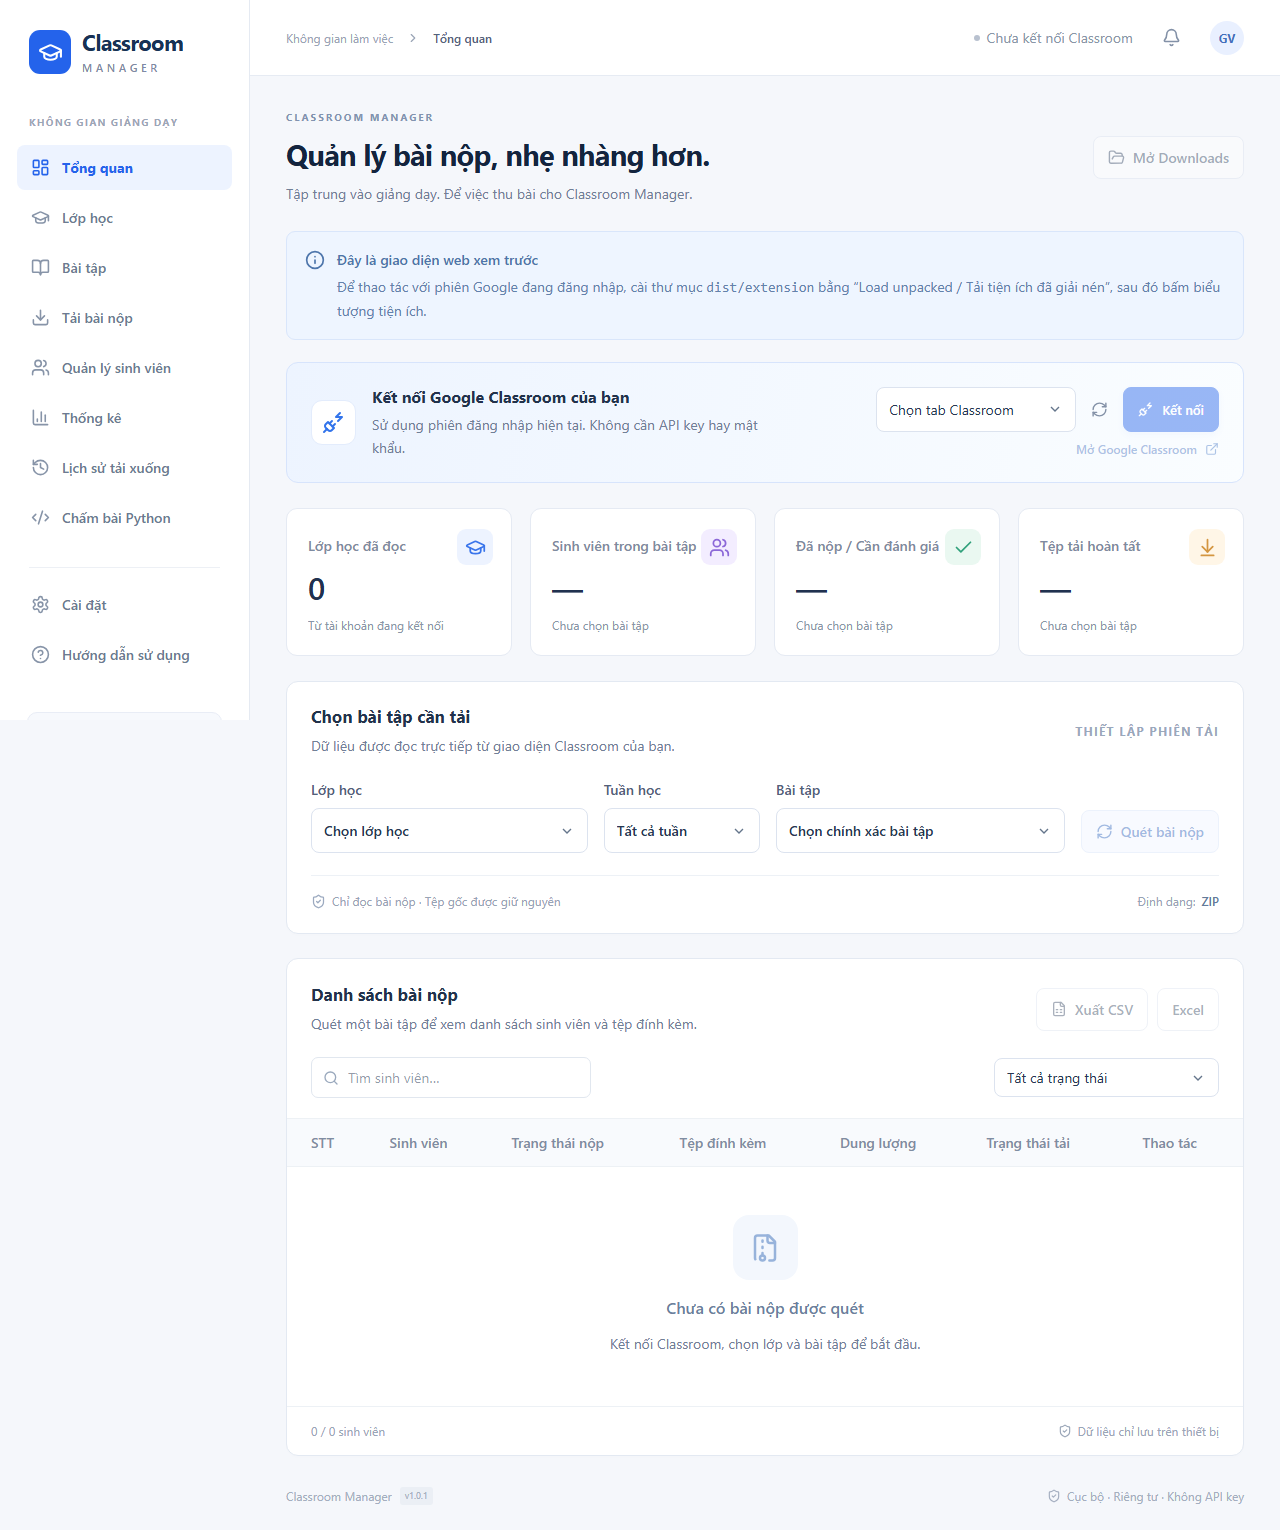
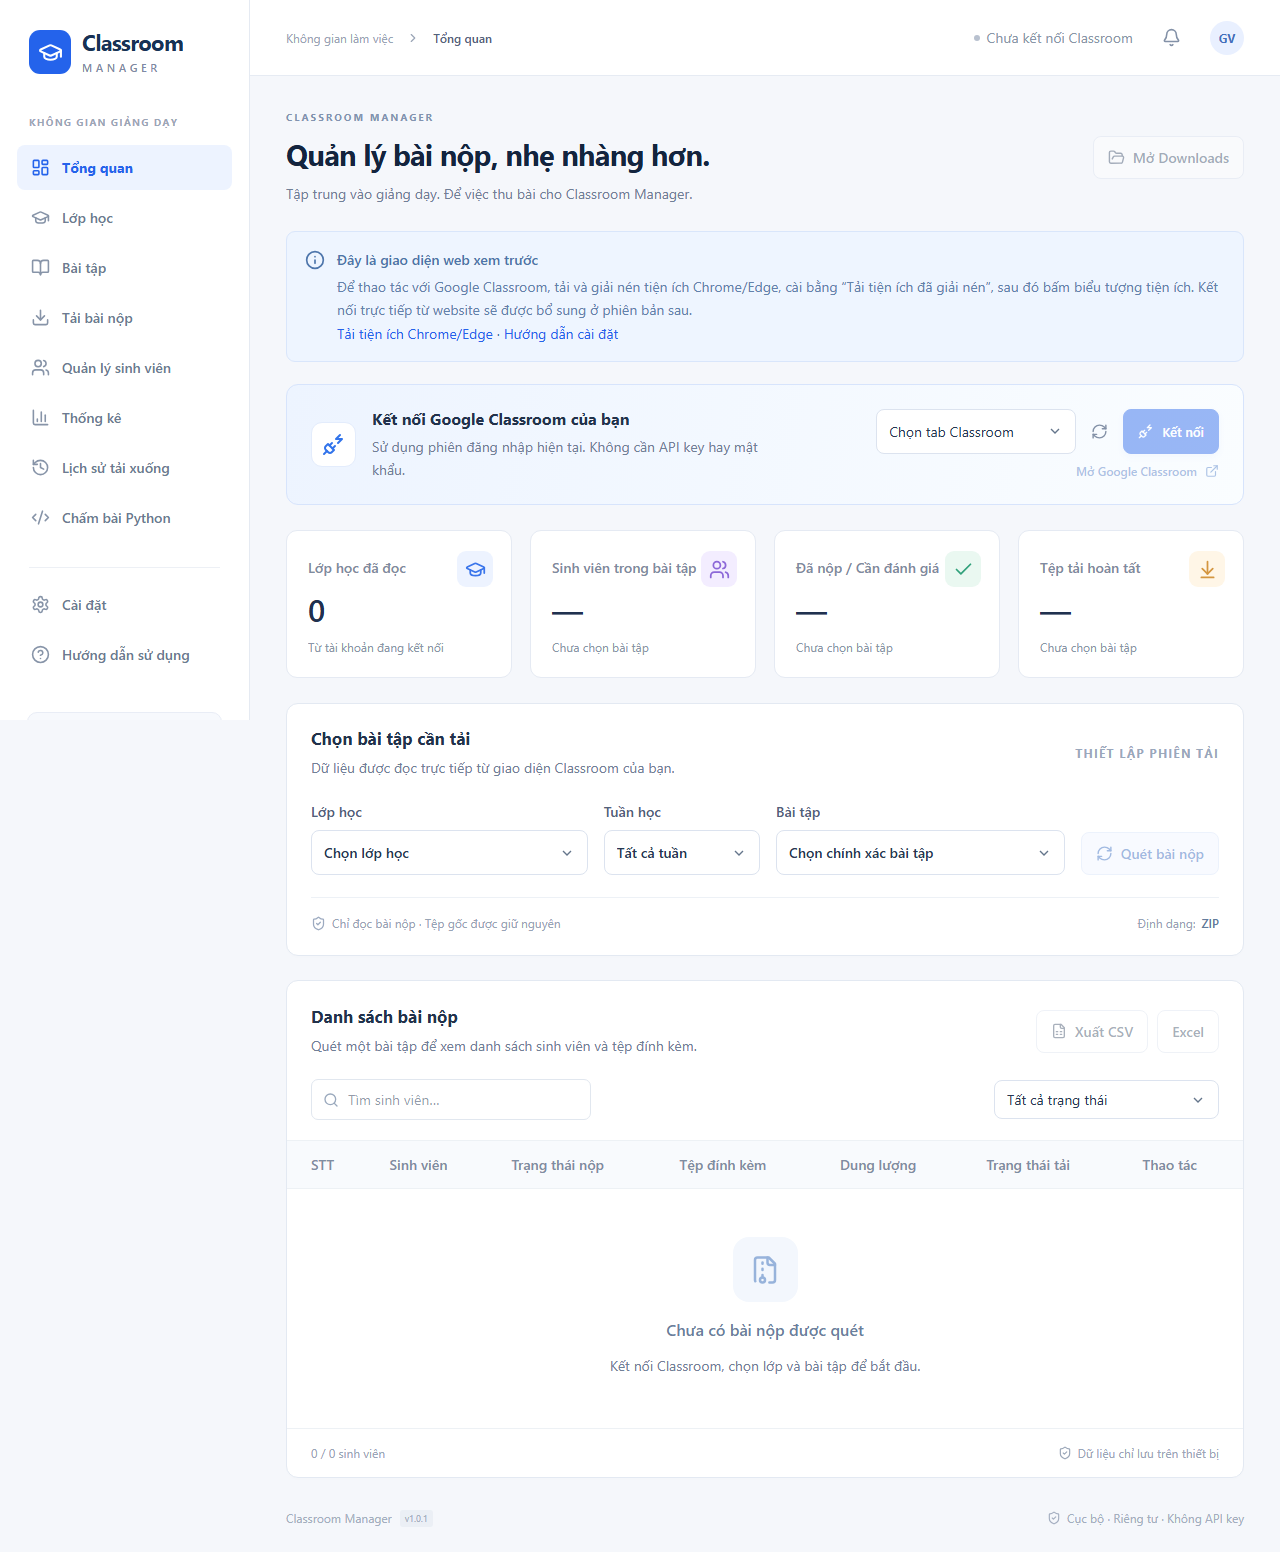
Publish website on GitHub Pages and add release downloads

diff --git a/apps/web/main.tsx b/apps/web/main.tsx
@@ -624,10 +624,17 @@ function App() {
               <div>
                 <strong>Đây là giao diện web xem trước</strong>
                 <p>
-                  Để thao tác với phiên Google đang đăng nhập, cài thư mục{' '}
-                  <code>dist/extension</code> bằng “Load unpacked / Tải tiện ích đã giải nén”, sau
-                  đó bấm biểu tượng tiện ích.
+                  Để thao tác với Google Classroom, tải và giải nén tiện ích Chrome/Edge, cài bằng
+                  “Tải tiện ích đã giải nén”, sau đó bấm biểu tượng tiện ích. Kết nối trực tiếp từ
+                  website sẽ được bổ sung ở phiên bản sau.
                 </p>
+                <a href="https://github.com/huando200666/classroom-manager/releases/latest/download/Classroom-Manager-1.0.1.zip">
+                  Tải tiện ích Chrome/Edge
+                </a>
+                {' · '}
+                <a href="https://github.com/huando200666/classroom-manager/blob/main/docs/CAI-DAT.md">
+                  Hướng dẫn cài đặt
+                </a>
               </div>
             </div>
           )}

diff --git a/vite.config.ts b/vite.config.ts
@@ -1,8 +1,12 @@
 import { defineConfig } from 'vite';
 import react from '@vitejs/plugin-react';
 import tailwindcss from '@tailwindcss/vite';
-export default defineConfig({
-  base: './',
+export default defineConfig(({ mode }) => ({
+  base: mode === 'web' ? '/classroom-manager/' : './',
   plugins: [react(), tailwindcss()],
-  build: { outDir: 'dist/extension', emptyOutDir: true, chunkSizeWarningLimit: 1400 },
-});
+  build: {
+    outDir: mode === 'web' ? 'dist/site' : 'dist/extension',
+    emptyOutDir: true,
+    chunkSizeWarningLimit: 1400,
+  },
+}));

diff --git a/README.md b/README.md
@@ -4,6 +4,23 @@
 
 **Trạng thái:** MVP có mã nguồn, bản build và kiểm thử trên trang mô phỏng. Chưa kiểm chứng adapter trên một tài khoản Classroom thực tế. Không bảo đảm mọi phiên bản DOM của Google đều được nhận diện. Khi không xác minh được dữ liệu, tiện ích báo lỗi và không tải dựa trên suy đoán.
 
+## Website và mã nguồn
+
+- Website: https://huando200666.github.io/classroom-manager/
+- Mã nguồn: https://github.com/huando200666/classroom-manager
+- Tải bản cài đặt và mã nguồn ZIP: https://github.com/huando200666/classroom-manager/releases/latest
+
+GitHub Pages phục vụ giao diện web xem trước và liên kết tải tiện ích. Bản này chưa có OAuth/backend để kết nối Classroom trực tiếp từ website. Muốn thao tác với lớp học, dùng tiện ích Chrome/Edge; adapter vẫn cần kiểm chứng trên Classroom thật.
+
+Mỗi lần đẩy mã lên nhánh `main`, GitHub Actions chạy unit/integration tests, build và triển khai website. Thư mục build web là `dist/site`, tách riêng bản tiện ích `dist/extension`. `node_modules`, cache và hồ sơ trình duyệt kiểm thử không đưa vào kho; có thể cài lại thư viện bằng `npm ci`.
+
+```powershell
+npm run build:web
+npm run preview:web
+```
+
+Đường dẫn Vite của bản web được cấu hình cho `/classroom-manager/`. Nếu đổi tên repository, cập nhật `base` của mode `web` trong `vite.config.ts`.
+
 ## Dùng bản đã build
 
 1. Giải nén `release/Classroom-Manager-1.0.1.zip`.

diff --git a/docs/PHAT-HANH-1.0.1.md b/docs/PHAT-HANH-1.0.1.md
@@ -1,0 +1,20 @@
+# Classroom Manager 1.0.1
+
+- Phục hồi kết nối cho tab Classroom đã mở trước khi cài tiện ích; không tự tải lại trang và không nhân đôi thao tác tải.
+- Sửa lỗi trạng thái nền ghi đè cấu hình đang chỉnh sửa.
+- Tách bản build website GitHub Pages khỏi bản tiện ích Chrome/Edge.
+- Tự build trước khi đóng gói, kiểm tra phiên bản manifest và tạo mã SHA-256.
+
+Website: https://huando200666.github.io/classroom-manager/
+
+## Cài tiện ích
+
+Tải `Classroom-Manager-1.0.1.zip`, giải nén, mở `chrome://extensions` hoặc `edge://extensions`, bật chế độ nhà phát triển và chọn **Tải tiện ích đã giải nén**. Chọn thư mục `Classroom-Manager` chứa `manifest.json`.
+
+Tệp `Classroom-Manager-1.0.1-source.zip` chứa mã nguồn, tài liệu và workflow GitHub Pages. Dùng `SHA256SUMS.txt` để đối chiếu tệp tải về.
+
+## Phạm vi hiện tại
+
+Website cung cấp giao diện xem trước và liên kết tải tiện ích. Kết nối Classroom trực tiếp từ website bằng OAuth/API chưa triển khai. Adapter DOM của tiện ích chưa được kiểm chứng trên tài khoản Classroom thật.
+
+Trước khi đưa lên GitHub: 81/81 unit/integration và 5/5 E2E đã đạt trong lần rà soát 26/11/2026 với dữ liệu mô phỏng. Chấm bài Python chưa triển khai.
